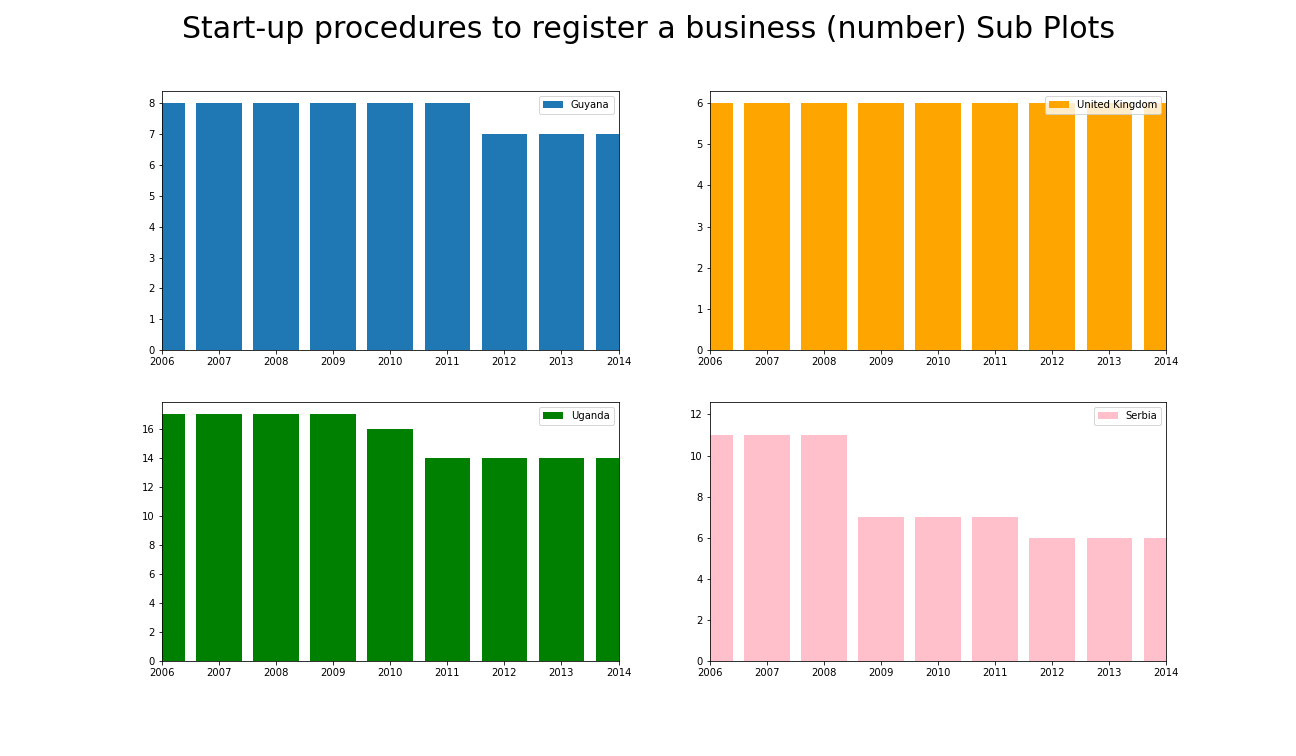
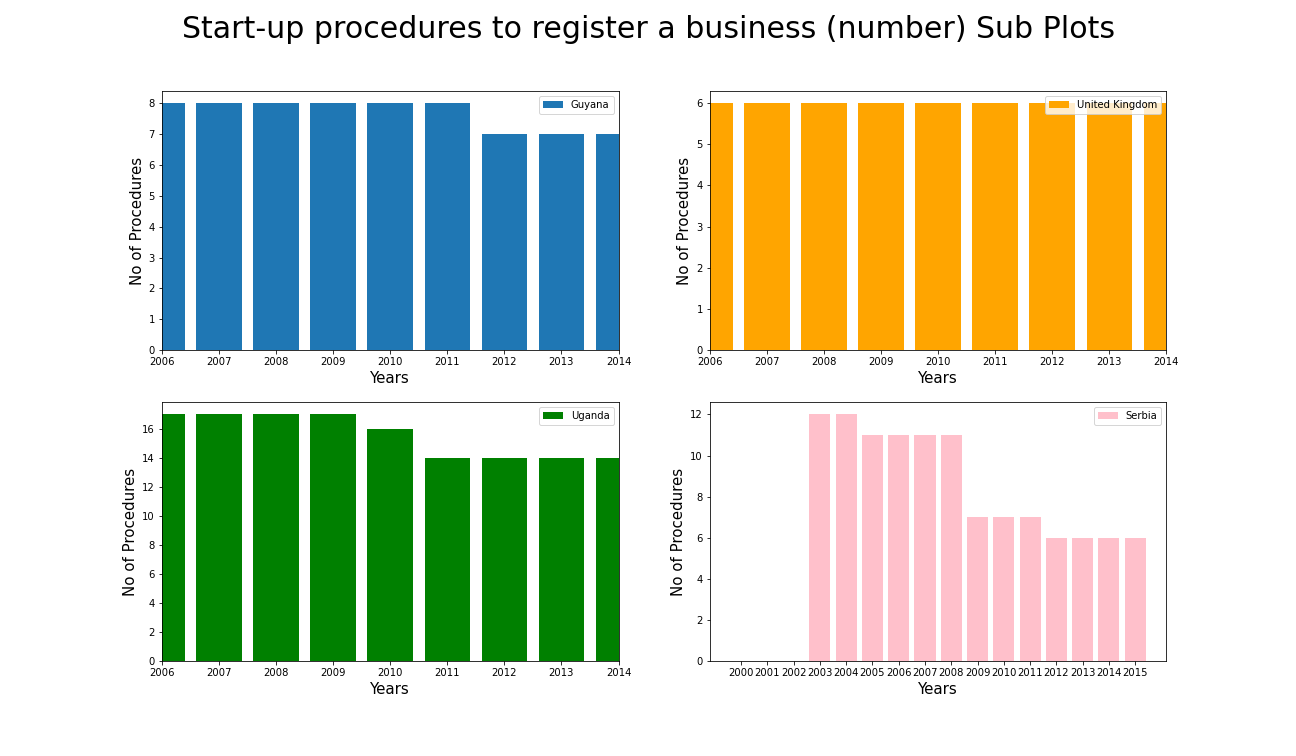
adding labels to the plots

diff --git a/Visualisation Assignment/visualisation.py b/Visualisation Assignment/visualisation.py
@@ -108,8 +108,12 @@ def linePlot(series_name):
     plt.plot(data3['year'], data3[series_name], label = 'Uganda')
     plt.plot(data4['year'], data4[series_name], label = 'Serbia')
     
-    # plt.hist(populationGrowthData["Country Name"], density = True, label= 'America')
-    plt.xlim('2006', '2014')
+    plt.xlim('2006', '2014') # setting x-axis limits
+    
+    # x-axis and y-axis labels
+    plt.xlabel('Years', fontsize = 20)
+    plt.ylabel('No of Procedures', fontsize = 20)
+    
     
     plt.title(series_name + " Line Plot", fontsize = 30) # Title of the Series Name
     plt.rcParams["figure.figsize"] = (18,10.5) # to make visulisation of clear plot
@@ -153,24 +157,31 @@ def subPlots(series_name):
     plt.subplot(2, 2, 1)
     plt.bar(data1['year'], data1[series_name], label= 'Guyana')
     plt.xlim('2006', '2014')
+    plt.xlabel('Years', fontsize = 15)
+    plt.ylabel('No of Procedures', fontsize = 15)
     plt.legend()
     
     # sub plot 2
     plt.subplot(2, 2, 2)
     plt.bar(data2['year'], data2[series_name], label= 'United Kingdom', color='orange')
     plt.xlim('2006', '2014')
+    plt.xlabel('Years', fontsize = 15)
+    plt.ylabel('No of Procedures', fontsize = 15)
     plt.legend()
     
     # sub plot 3
     plt.subplot(2, 2, 3)
     plt.bar(data3['year'], data3[series_name], label= 'Uganda', color='green')
     plt.xlim('2006', '2014')
+    plt.xlabel('Years', fontsize = 15)
+    plt.ylabel('No of Procedures', fontsize = 15)
     plt.legend()
     
     # sub plot 4
     plt.subplot(2, 2, 4)
     plt.bar(data4['year'], data4[series_name], label= 'Serbia', color='pink')
-    plt.xlim('2006', '2014')
+    plt.xlabel('Years', fontsize = 15)
+    plt.ylabel('No of Procedures', fontsize = 15)
     plt.legend()
     
     plt.savefig(series_name + ' Sub_Plot.png') # to save the plots
@@ -210,6 +221,10 @@ def violinPlots(series_name):
     data = [data1[series_name], data2[series_name], data3[series_name], data4[series_name]]
     
     plt.violinplot(data, showmedians=True)
+    
+    # x-axis and y-axis labels
+    plt.xlabel('Country Names', fontsize = 20)
+    plt.ylabel('No of Procedures', fontsize = 20)
     
     plt.xticks([1,2,3,4], ['Guyana','United Kingdom','Uganda','Serbia']) # to change the x-axis values
     
